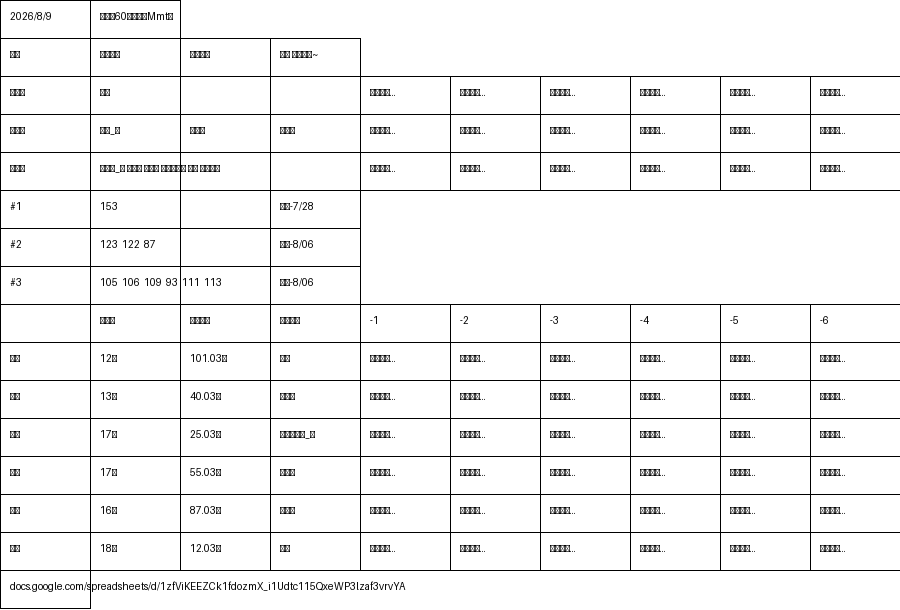
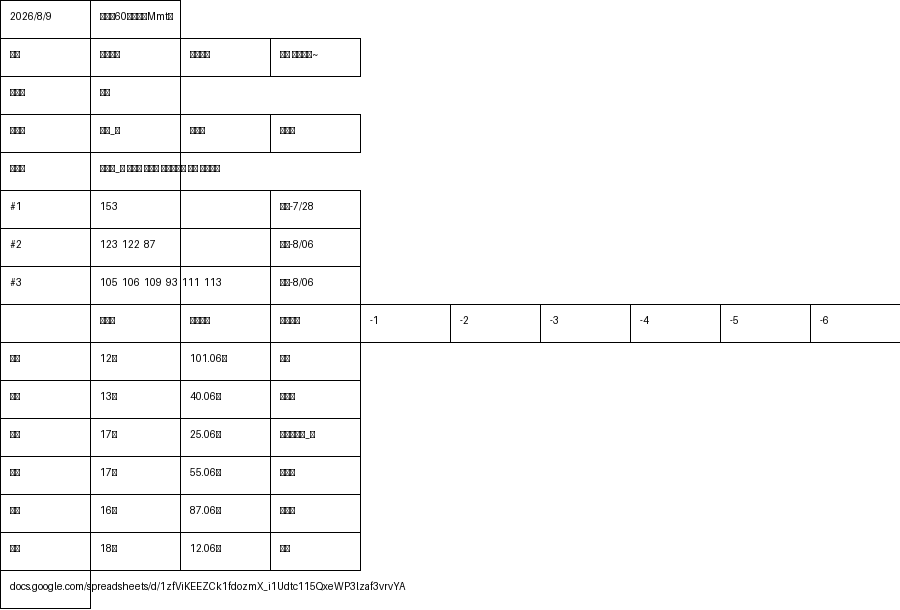
deploy: 224b5357c59f828d95f5d1d7b2c40dc3bb11ef71

diff --git a/index.html b/index.html
@@ -32,7 +32,7 @@ height:auto;
 </head>
 <body>
 <h1>📊 MementoMori 数据监测</h1>
-<p>更新时间：2026-08-09 14:38:24（北京时间）</p>
+<p>更新时间：2026-08-09 15:44:47（北京时间）</p>
 
 <h2>巅峰自动图片</h2>
 <div class="imgbox">
@@ -48,7 +48,7 @@ height:auto;
 <table><thead><tr><th>18%+</th></tr></thead><tbody><tr><td>13%+</td></tr><tr><td>3%+</td></tr><tr></tr><tr></tr><tr><td>全服巅峰角色使用率-TOP表    </td></tr><tr><td>分享链接：docs.google.com/spreadsheets/d/1VrnhPswVqPPbbC-Gps_e9Um7tWulYg4BI66HMt_OBZw</td></tr></tbody></table>
 
 <h2>MMT卡池数据</h2>
-<table><thead><tr><th>2026/8/9</th><th>《每日60秒，读懂Mmt》</th></tr></thead><tbody><tr><td>卡池</td><td>最新卡池</td><td>上个卡池</td><td>即将 或已过期~</td></tr><tr><td>新角色</td><td>小白</td><td></td><td></td><td>正在加载...</td><td>正在加载...</td><td>正在加载...</td><td>正在加载...</td><td>正在加载...</td><td>正在加载...</td></tr><tr><td>新复刻</td><td>科迪_蓝</td><td>弗萊可</td><td>涅布拉</td><td>正在加载...</td><td>正在加载...</td><td>正在加载...</td><td>正在加载...</td><td>正在加载...</td><td>正在加载...</td></tr><tr><td>新星辰</td><td>娜塔夏_暗 尤里卡 厄瑞涅 阿爾托莉亞 姬璃 鷺絲堤卡</td><td></td><td></td><td>正在加载...</td><td>正在加载...</td><td>正在加载...</td><td>正在加载...</td><td>正在加载...</td><td>正在加载...</td></tr><tr><td>#1</td><td>153 </td><td></td><td>新池-7/28</td></tr><tr><td>#2</td><td>123  122  87 </td><td></td><td>新池-8/06</td></tr><tr><td>#3</td><td>105  106  109  93  111  113 </td><td></td><td>新池-8/06</td></tr><tr><td></td><td>限定数</td><td>等待天数</td><td>上个角色</td><td>-1</td><td>-2</td><td>-3</td><td>-4</td><td>-5</td><td>-6</td></tr><tr><td>天光</td><td>12个</td><td>101.03天</td><td>百合</td><td>正在加载...</td><td>正在加载...</td><td>正在加载...</td><td>正在加载...</td><td>正在加载...</td><td>正在加载...</td></tr><tr><td>幽冥</td><td>13个</td><td>40.03天</td><td>伊莱恩</td><td>正在加载...</td><td>正在加载...</td><td>正在加载...</td><td>正在加载...</td><td>正在加载...</td><td>正在加载...</td></tr><tr><td>忧蓝</td><td>17个</td><td>25.03天</td><td>普莉玛维拉_夏</td><td>正在加载...</td><td>正在加载...</td><td>正在加载...</td><td>正在加载...</td><td>正在加载...</td><td>正在加载...</td></tr><tr><td>业红</td><td>17个</td><td>55.03天</td><td>關妮薇</td><td>正在加载...</td><td>正在加载...</td><td>正在加载...</td><td>正在加载...</td><td>正在加载...</td><td>正在加载...</td></tr><tr><td>苍翠</td><td>16个</td><td>87.03天</td><td>艾蒂涅</td><td>正在加载...</td><td>正在加载...</td><td>正在加载...</td><td>正在加载...</td><td>正在加载...</td><td>正在加载...</td></tr><tr><td>流金</td><td>18个</td><td>12.03天</td><td>小白</td><td>正在加载...</td><td>正在加载...</td><td>正在加载...</td><td>正在加载...</td><td>正在加载...</td><td>正在加载...</td></tr><tr><td>docs.google.com/spreadsheets/d/1zfViKEEZCk1fdozmX_i1Udtc115QxeWP3lzaf3vrvYA</td></tr></tbody></table>
+<table><thead><tr><th>2026/8/9</th><th>《每日60秒，读懂Mmt》</th></tr></thead><tbody><tr><td>卡池</td><td>最新卡池</td><td>上个卡池</td><td>即将 或已过期~</td></tr><tr><td>新角色</td><td>小白</td></tr><tr><td>新复刻</td><td>科迪_蓝</td><td>弗萊可</td><td>涅布拉</td></tr><tr><td>新星辰</td><td>娜塔夏_暗 尤里卡 厄瑞涅 阿爾托莉亞 姬璃 鷺絲堤卡</td></tr><tr><td>#1</td><td>153 </td><td></td><td>新池-7/28</td></tr><tr><td>#2</td><td>123  122  87 </td><td></td><td>新池-8/06</td></tr><tr><td>#3</td><td>105  106  109  93  111  113 </td><td></td><td>新池-8/06</td></tr><tr><td></td><td>限定数</td><td>等待天数</td><td>上个角色</td><td>-1</td><td>-2</td><td>-3</td><td>-4</td><td>-5</td><td>-6</td></tr><tr><td>天光</td><td>12个</td><td>101.06天</td><td>百合</td></tr><tr><td>幽冥</td><td>13个</td><td>40.06天</td><td>伊莱恩</td></tr><tr><td>忧蓝</td><td>17个</td><td>25.06天</td><td>普莉玛维拉_夏</td></tr><tr><td>业红</td><td>17个</td><td>55.06天</td><td>關妮薇</td></tr><tr><td>苍翠</td><td>16个</td><td>87.06天</td><td>艾蒂涅</td></tr><tr><td>流金</td><td>18个</td><td>12.06天</td><td>小白</td></tr><tr><td>docs.google.com/spreadsheets/d/1zfViKEEZCk1fdozmX_i1Udtc115QxeWP3lzaf3vrvYA</td></tr></tbody></table>
 
 </body>
 </html>
